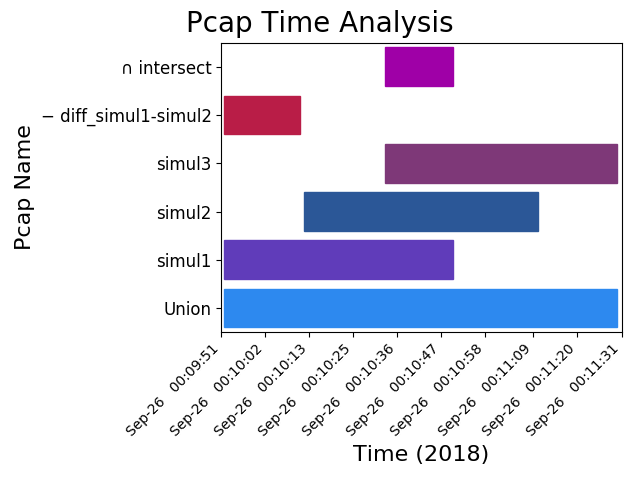
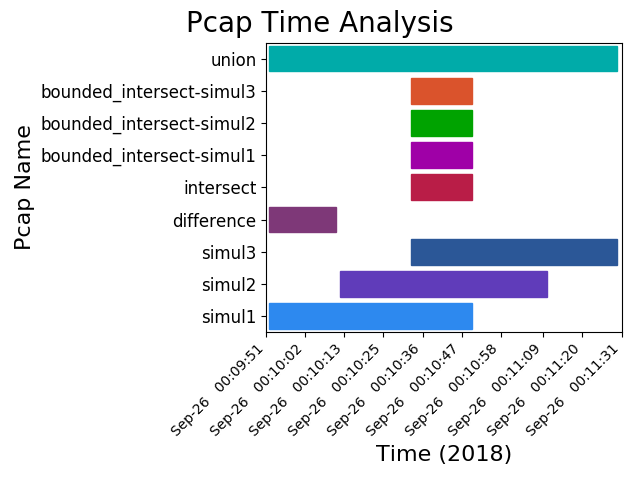
Created integration tests Integration tests in test_all.py will create a png and then compare it bit-for-bit against expected outputs in examples/*.png

Changed region(s): [[0.0625, 0.0938, 0.9688, 0.9688], [0.875, 0.7188, 0.9062, 0.75], [0.3125, 0.7188, 0.3438, 0.75]]

diff --git a/tests/test_all.py b/tests/test_all.py
@@ -1,0 +1,93 @@
+# -*- coding: utf-8 -*-
+# Copyright 2018 Ross Jacobs All Rights Reserved.
+#
+# Licensed under the Apache License, Version 2.0 (the "License");
+# you may not use this file except in compliance with the License.
+# You may obtain a copy of the License at
+#
+#     http://www.apache.org/licenses/LICENSE-2.0
+#
+# Unless required by applicable law or agreed to in writing, software
+# distributed under the License is distributed on an "AS IS" BASIS,
+# WITHOUT WARRANTIES OR CONDITIONS OF ANY KIND, either express or implied.
+# See the License for the specific language governing permissions and
+# limitations under the License.
+"""Test draw_graph.py against existing png files."""
+import unittest
+import os
+import filecmp
+
+import pcapgraph.manipulate_frames as mf
+import pcapgraph.get_filenames as gf
+import pcapgraph.draw_graph as dg
+import pcapgraph.pcap_math as pm
+
+
+class TestDrawGraph(unittest.TestCase):
+    def test_draw_basic(self):
+        """Verifies that specific args create the exact same image as expected.
+
+        Equivalent to `pcapgraph examples/simul1.pcap
+        examples/simul2.pcap examples/simul3.pcap --output png"""
+        args = {
+            '--anonymize': False,
+            '--compare': False,
+            '--difference': False,
+            '--dir': [],
+            '--generate-pcaps': False,
+            '--help': False,
+            '--int': None,
+            '--intersection': False,
+            '--output': ['png'],
+            '--time-intersect': False,
+            '--union': False,
+            '--verbose': False,
+            '--version': False,
+            '<file>': [
+                '../examples/simul1.pcap',
+                '../examples/simul2.pcap',
+                '../examples/simul3.pcap'
+            ],
+        }
+        self.mock_main(args)
+        self.assertTrue(filecmp.cmp('pcap_graph-simul1.png',
+                                    '../examples/pcap_graph.png'))
+        os.remove('pcap_graph-simul1.png')
+
+    def test_draw_all(self):
+        """Verifies that specific args create the exact same image as expected.
+
+        Equivalent to `pcapgraph -ditu examples/simul1.pcap
+        examples/simul2.pcap examples/simul3.pcap --output png"""
+        args = {
+            '--anonymize': False,
+            '--compare': False,
+            '--difference': True,
+            '--dir': [],
+            '--generate-pcaps': False,
+            '--help': False,
+            '--int': None,
+            '--intersection': True,
+            '--output': ['png'],
+            '--time-intersect': True,
+            '--union': True,
+            '--verbose': False,
+            '--version': False,
+            '<file>': [
+                '../examples/simul1.pcap',
+                '../examples/simul2.pcap',
+                '../examples/simul3.pcap'
+            ],
+        }
+        self.mock_main(args)
+        self.assertTrue(filecmp.cmp('pcap_graph-simul1.png',
+                                    '../examples/pcap_graph_all.png'))
+        os.remove('pcap_graph-simul1.png')
+
+    @staticmethod
+    def mock_main(args):
+        """Like main, but main doesn't take arguments"""
+        filenames = gf.parse_cli_args(args)
+        filenames = pm.parse_set_arg(filenames, args)
+        pcaps_frame_dict = mf.get_pcap_frame_dict(filenames)
+        dg.draw_graph(pcaps_frame_dict, args['<file>'], args['--output'])

diff --git a/pcapgraph/pcap_math.py b/pcapgraph/pcap_math.py
@@ -37,20 +37,21 @@ def parse_set_arg(filenames, args):
         'difference': args['--difference'],
         'time-intersect': args['--time-intersect']
     }
-
-    if set_args['union']:
-        generated_file = union_pcap(*filenames)
-        filenames.append(generated_file)
-    if set_args['intersection']:
-        generated_file = intersect_pcap(*filenames)
-        filenames.append(generated_file)
+    new_files = []
     if set_args['difference']:
         generated_file = difference_pcap(*filenames)
-        filenames.append(generated_file)
+        new_files.append(generated_file)
+    if set_args['intersection']:
+        generated_file = intersect_pcap(*filenames)
+        new_files.append(generated_file)
     if set_args['time-intersect']:
         generated_filelist = bounded_intersect_pcap(*filenames)
-        filenames.extend(generated_filelist)
+        new_files.extend(generated_filelist)
+    if set_args['union']:
+        generated_file = union_pcap(*filenames)
+        new_files.append(generated_file)
 
+    filenames.extend(new_files)
     return filenames
 
 
@@ -86,12 +87,12 @@ def union_pcap(*pcaps):
         for frame in pcap:
             raw_packet_list.append(frame['_source']['layers']['frame_raw'])
 
-    print("Packet statistics", collections.Counter(raw_packet_list))
+    print("\nPacket statistics", collections.Counter(raw_packet_list))
 
     union_frame_dict = {}
     for frame in raw_packet_list:
         union_frame_dict[frame] = frame_dict[frame]
-    save_file.save_pcap(pcap_dict=union_frame_dict, name='union')
+    save_file.save_pcap(pcap_dict=union_frame_dict, name='union.pcap')
 
     return 'union.pcap'
 
@@ -144,7 +145,7 @@ def intersect_pcap(*pcaps):
     intersect_frame_dict = {}
     for frame in frame_intersection:
         intersect_frame_dict[frame] = frame_dict[frame]
-    save_file.save_pcap(pcap_dict=intersect_frame_dict, name='intersect')
+    save_file.save_pcap(pcap_dict=intersect_frame_dict, name='intersect.pcap')
 
     return 'intersect.pcap'
 
@@ -172,7 +173,7 @@ def difference_pcap(*pcaps):
     for frame in packet_diff:
         # Minuend frame dict should have all values we care about.
         diff_frame_dict[frame] = minuend_frame_dict[frame]
-    save_file.save_pcap(pcap_dict=diff_frame_dict, name='difference')
+    save_file.save_pcap(pcap_dict=diff_frame_dict, name='difference.pcap')
 
     return 'difference.pcap'
 
@@ -256,7 +257,7 @@ def bounded_intersect_pcap(*pcaps):
 
     names = []  # Names of all generated pcaps
     for index, pcap in enumerate(bounded_pcaps):
-        names.append('bounded_intersect-simul' + str(index + 1))
+        names.append('bounded_intersect-simul' + str(index + 1) + '.pcap')
         save_file.save_pcap(pcap_dict=bounded_pcaps[index], name=names[index])
 
     return names

diff --git a/pcapgraph/pcapgraph.py b/pcapgraph/pcapgraph.py
@@ -15,16 +15,15 @@
 """PcapGraph
 
 Usage:
-  pcapgraph [-acVditu] [--output <format>...] \
-(--dir <dir>... | <file>...)
+  pcapgraph [-acVditu] [--output <format>...] (--dir <dir>... | <file>...)
   pcapgraph (-g | --generate-pcaps) [--int <interface>]
   pcapgraph (-h | --help)
   pcapgraph (-v | --version)
 
 Options:
   <file>...             Any number of packet captures to analyze.
-  -a, --anonymize       Anonymize packet capture file names with fictional place
-                        names, devices, and interfaces.
+  -a, --anonymize       Anonymize packet capture file names with fictional
+                        place names and devices.
   -c, --compare         Compare all files to the first file by ip.id and
                         ip.checksum to find the percent of packets that
                         match exactly. (see Packet Comparisions).
@@ -80,13 +79,12 @@ Set Operations:
     1. Find all unique packets by their ASCII hexdump value.
     2. Apply the operation and generate a list of packets.
     3. Reencode the packets in a pcap using text2pcap.
-  pcapgraph will only run the last set operation specified (of -ditu).
 
   difference: Remove all packets that are present in one pcap from another.
   intersection: Find all packets that two pcaps have in common.
   union: Find all unique packets found in all provided pcaps.
 
-  bounded (intersection):
+  bounded (time intersection):
     Find the first and last frames in the frame intersection of all pcaps
     according to their timestamp Use these two frames as upper and lower
     limts to return all frames in each pcap that are between these two
@@ -133,10 +131,11 @@ def run():
     """
     get_tshark_status()
     args = docopt.docopt(__doc__)
+    print(args)
     filenames = gf.parse_cli_args(args)
     filenames = pm.parse_set_arg(filenames, args)
     pcaps_frame_dict = mf.get_pcap_frame_dict(filenames)
-    dg.draw_graph(pcaps_frame_dict, args['--output'])
+    dg.draw_graph(pcaps_frame_dict, args['<file>'], args['--output'])
 
 
 if __name__ == '__main__':

diff --git a/pcapgraph/draw_graph.py b/pcapgraph/draw_graph.py
@@ -24,11 +24,12 @@ import numpy as np
 import pcapgraph.manipulate_frames as mf
 
 
-def draw_graph(pcap_packets, save_fmts):
+def draw_graph(pcap_packets, input_files, save_fmts):
     """Draw a graph using matplotlib and numpy.
 
     Args:
         pcap_packets (dict): All packets, where key is pcap filename/operation.
+        input_files (list): List of input files that shouldn't be deleted.
         save_fmts (str): The save file type. Supported formats are dependent
             on the capabilites of the system: [png, pdf, ps, eps, and svg]. See
             https://matplotlib.org/api/pyplot_api.html#matplotlib.pyplot.savefig
@@ -61,6 +62,11 @@ def draw_graph(pcap_packets, save_fmts):
                 # Print text version because it's possible.
                 print(make_text_not_war(graph_vars))
                 plt.show()
+
+    if 'pcap' not in save_fmts:  # Delete temp files if not required.
+        new_files = set(pcap_filenames) - set(input_files)
+        for file in new_files:
+            os.remove(file)
 
 
 def get_graph_vars_from_file(filename):

diff --git a/pcapgraph/save_file.py b/pcapgraph/save_file.py
@@ -101,9 +101,9 @@ def save_pcap(pcap_dict, name):
     for frame in pcap_dict:
         frame_timestamp = pcap_dict[frame]
         pcap_text += convert_to_pcaptext(frame, frame_timestamp)
-    save_pcap_cmds = ['text2pcap', '-', name + '.pcap', '-t', '%s.']
+    save_pcap_cmds = ['text2pcap', '-', name, '-t', '%s.']
     save_pcap_sp = sp.Popen(
         save_pcap_cmds, stdin=sp.PIPE, stdout=sp.PIPE, stderr=sp.PIPE)
     save_pcap_sp.communicate(input=pcap_text.encode())
     save_pcap_sp.kill()
-    reorder_packets(name + '.pcap')
+    reorder_packets(name)
